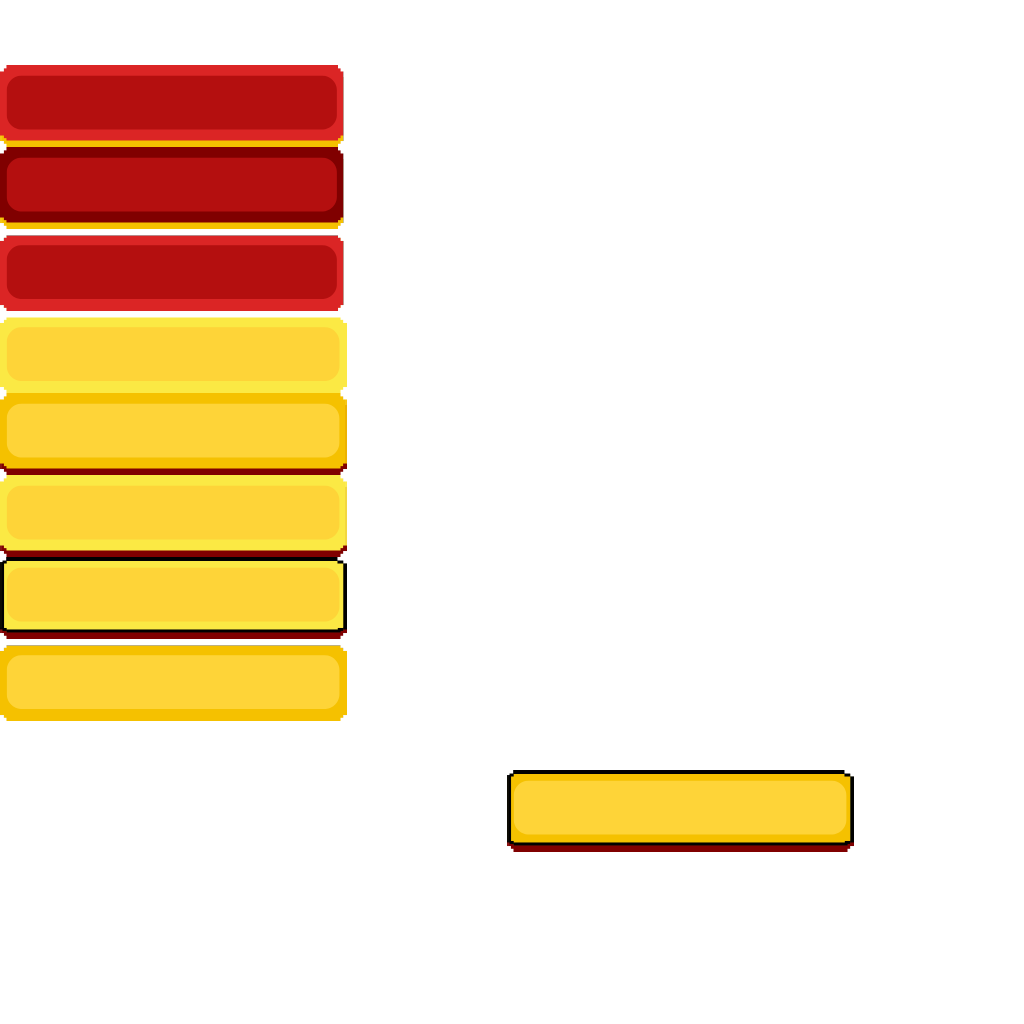
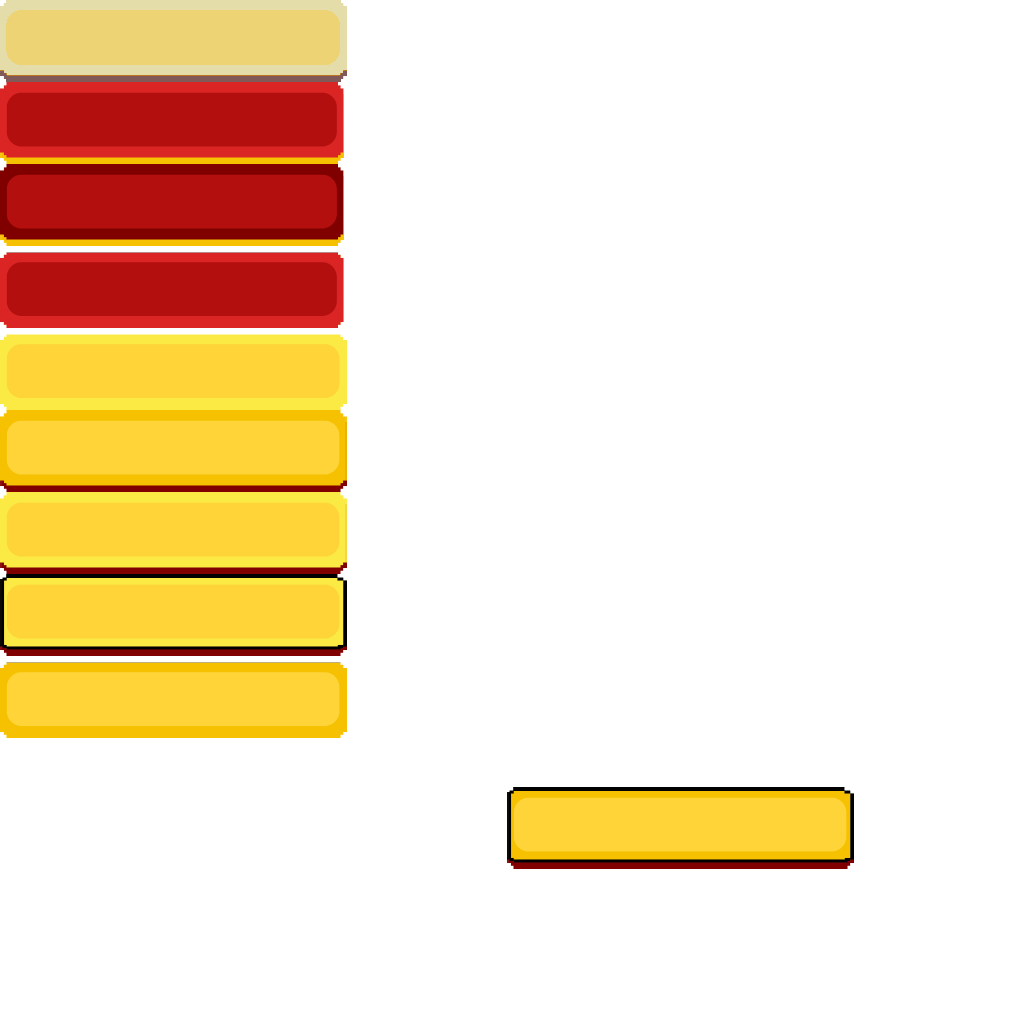
added load-save functionality

diff --git a/core/src/main/java/io/mygame/screens/MainMenu.java b/core/src/main/java/io/mygame/screens/MainMenu.java
@@ -14,6 +14,9 @@ import com.badlogic.gdx.scenes.scene2d.ui.TextButton;
 import com.badlogic.gdx.scenes.scene2d.utils.ChangeListener;
 import com.badlogic.gdx.utils.viewport.ScreenViewport;
 import io.mygame.common.SoundManager;
+import io.mygame.datahandler.GameDataHandler;
+
+import java.io.File;
 
 public class MainMenu extends WildCatScreen {
     private Texture background;
@@ -41,6 +44,8 @@ public class MainMenu extends WildCatScreen {
         yellowSkin = new Skin(Gdx.files.internal("skins/main_menu_button/yellow/yellow.json"));
         redSkin = new Skin(Gdx.files.internal("skins/main_menu_button/red/red.json"));
 
+        File dataDirectory = new File(GameDataHandler.dataDirectory);
+
         Table table = new Table();
         table.setY(-250);
         table.setFillParent(true);
@@ -52,6 +57,9 @@ public class MainMenu extends WildCatScreen {
         table.row();
 
         TextButton loadButton = new TextButton("LOAD GAME", yellowSkin);
+        if(!dataDirectory.exists()) {
+            loadButton.setDisabled(true);
+        }
         table.add(loadButton).space(15f);
         table.row();
 
@@ -62,7 +70,15 @@ public class MainMenu extends WildCatScreen {
             @Override
             public void changed(ChangeEvent event, Actor actor) {
                 sound.addSound("click");
+                GameDataHandler.saveGameData();
                 changeScreen(new GameScreen(game, sound));
+            }
+        });
+
+        loadButton.addListener(new ChangeListener() {
+            @Override
+            public void changed(ChangeEvent event, Actor actor) {
+
             }
         });
 

diff --git a/core/src/main/java/io/mygame/datahandler/GameDataHandler.java b/core/src/main/java/io/mygame/datahandler/GameDataHandler.java
@@ -1,0 +1,43 @@
+package io.mygame.datahandler;
+
+import com.google.gson.Gson;
+import com.google.gson.GsonBuilder;
+import io.mygame.common.GameManager;
+
+import java.io.File;
+import java.io.FileReader;
+import java.io.FileWriter;
+import java.io.IOException;
+
+public class GameDataHandler {
+    private static final GameManager gameManagerInstance = GameManager.getInstance();
+    public static final String dataDirectory = "../GameData";
+    private static final String dataPath = dataDirectory + "/data.json";
+
+    private GameDataHandler() {}
+
+    public static void loadGameData() {
+        try(FileReader fileReader = new FileReader(dataPath)) {
+            GameManager gameManager = JSONService.deserialize(fileReader, GameManager.class);
+            gameManagerInstance.setPlayerName(gameManager.getPlayerName());
+            gameManagerInstance.setNpcFound(gameManager.getNpcFound());
+            gameManagerInstance.setBuildingFound(gameManager.getBuildingsFound());
+            gameManagerInstance.setVolume(gameManager.getVolume());
+        } catch(IOException e) {
+            System.err.println("Could not read data file: " + dataPath);
+        }
+    }
+
+    public static void saveGameData() {
+        File directory = new File(dataDirectory);
+        if(!directory.exists()) {
+            directory.mkdir();
+        }
+
+        try(FileWriter fileWriter = new FileWriter(dataPath)) {
+            JSONService.serializedObject(gameManagerInstance, fileWriter);
+        } catch(IOException e) {
+            System.err.println("Could not create data file: " + dataPath);
+        }
+    }
+}

diff --git a/core/src/main/java/io/mygame/datahandler/JSONService.java b/core/src/main/java/io/mygame/datahandler/JSONService.java
@@ -1,0 +1,22 @@
+package io.mygame.datahandler;
+
+import com.google.gson.Gson;
+import com.google.gson.GsonBuilder;
+
+import java.io.FileReader;
+import java.io.FileWriter;
+
+public class JSONService {
+    private static final Gson gson = new GsonBuilder()
+        .setPrettyPrinting()
+        .serializeNulls()
+        .create();
+
+    public static void serializedObject(Serializable obj, FileWriter fw) {
+        gson.toJson(obj, fw);
+    }
+
+    public static <T extends Serializable> T deserialize(FileReader fr, Class<T> clazz) {
+        return gson.fromJson(fr, clazz);
+    }
+}

diff --git a/core/src/main/java/io/mygame/common/GameManager.java b/core/src/main/java/io/mygame/common/GameManager.java
@@ -1,6 +1,8 @@
 package io.mygame.common;
 
-public class GameManager {
+import io.mygame.datahandler.Serializable;
+
+public class GameManager implements Serializable {
     private static GameManager instance;
     private String playerName;
     private int npcFound;
@@ -42,7 +44,7 @@ public class GameManager {
         this.buildingsFound = buildingsFound;
     }
 
-    public void setVolume(int volume) {
+    public void setVolume(float volume) {
         this.volume = volume;
     }
 }

diff --git a/core/src/main/java/io/mygame/factories/EntityFactory.java b/core/src/main/java/io/mygame/factories/EntityFactory.java
@@ -22,7 +22,6 @@ public class EntityFactory {
         npcs.add(new Student(textureRegion, 3180, 400, false, "in-place"));
         npcs.add(new Guard(textureRegion, 3230, 514, true, "targeted"));
         npcs.add(new Guard(textureRegion, 3200,500, false, "in-place"));
-        npcs.add(new Janitor(textureRegion, 2980, 600,true, "targeted"));
         npcs.add(new Janitor(textureRegion, 3011, 400, false, "in-place"));
 
         NPC npc = npcs.get(0);

diff --git a/core/src/main/java/io/mygame/datahandler/Serializable.java b/core/src/main/java/io/mygame/datahandler/Serializable.java
@@ -1,0 +1,4 @@
+package io.mygame.datahandler;
+
+public interface Serializable {
+}
